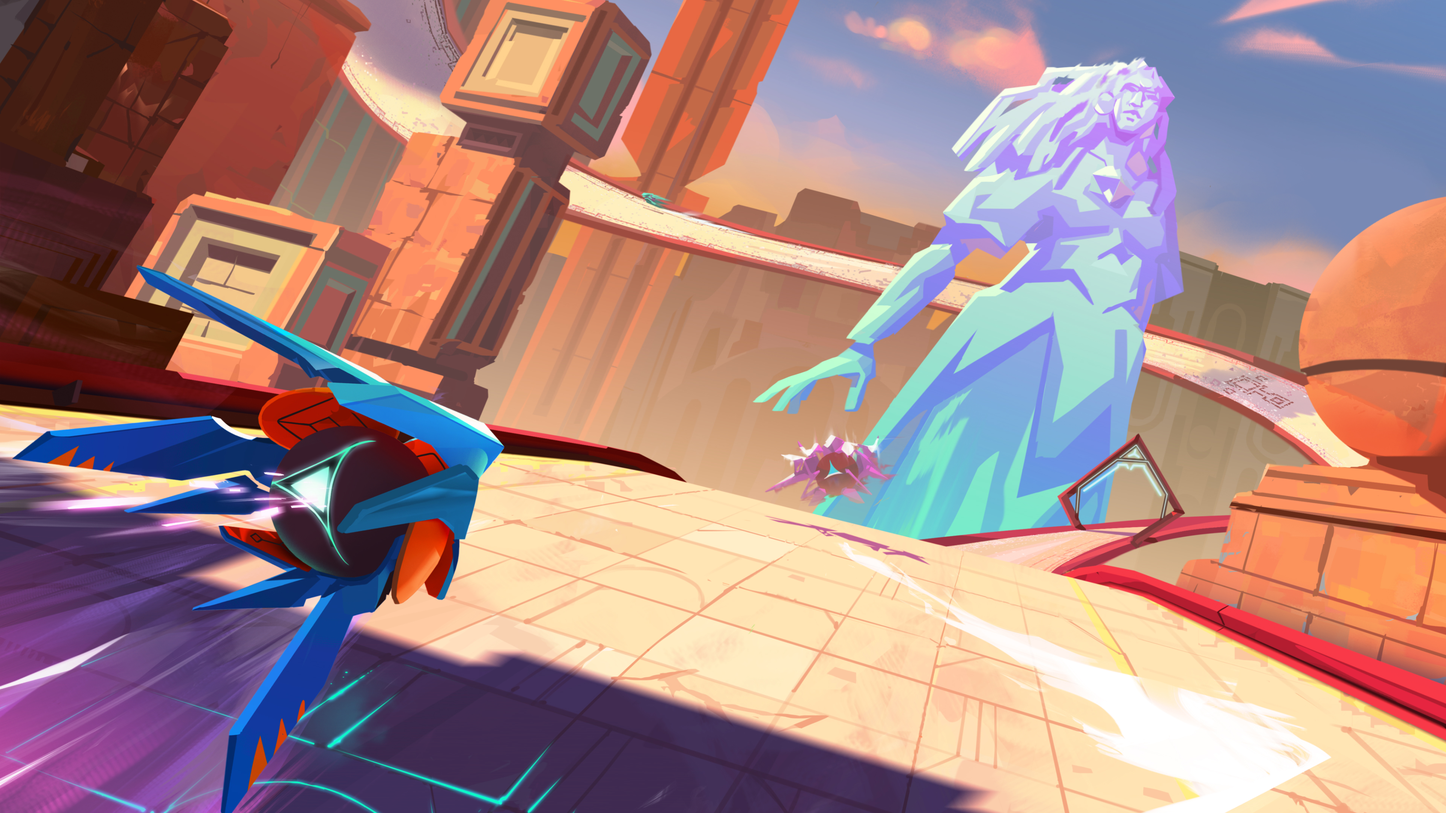
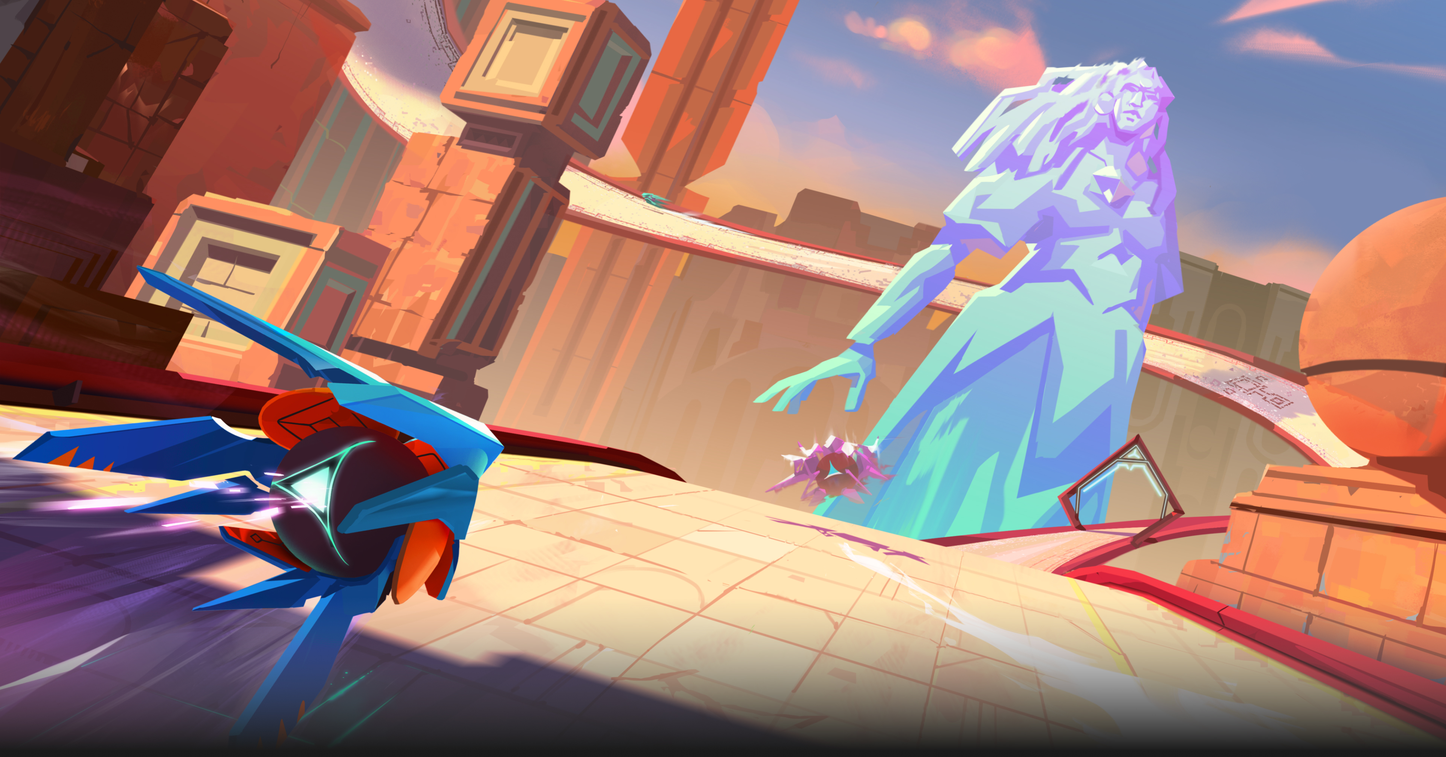
header style

diff --git a/phantomspark/css/style.css b/phantomspark/css/style.css
@@ -36,7 +36,7 @@ body, html {
 .header-image {
     background-image: url('../img/header.jpg'); /* Replace with your image URL */
     background-size: cover;
-    background-position: center;
+    background-position: bottom center;
     height: 60vh; /* Adjust the height as needed */
     width: 100%;
     display: flex;
